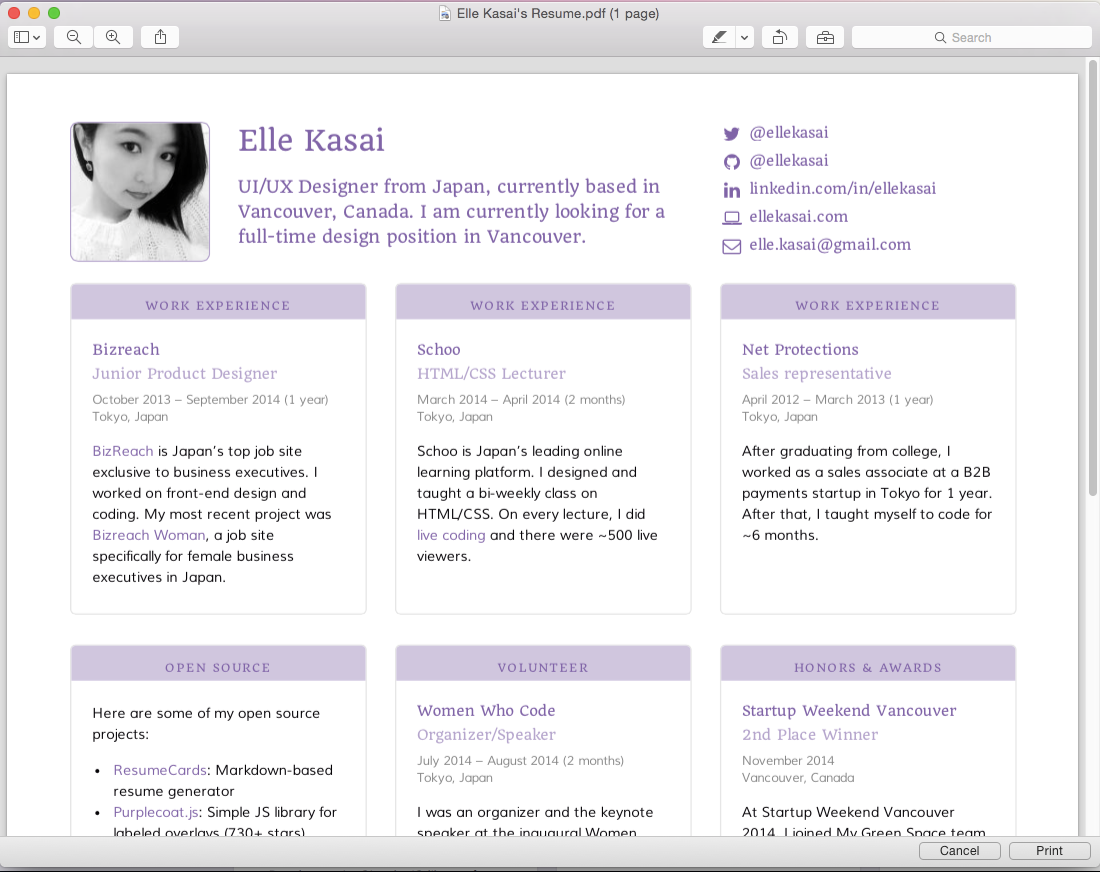
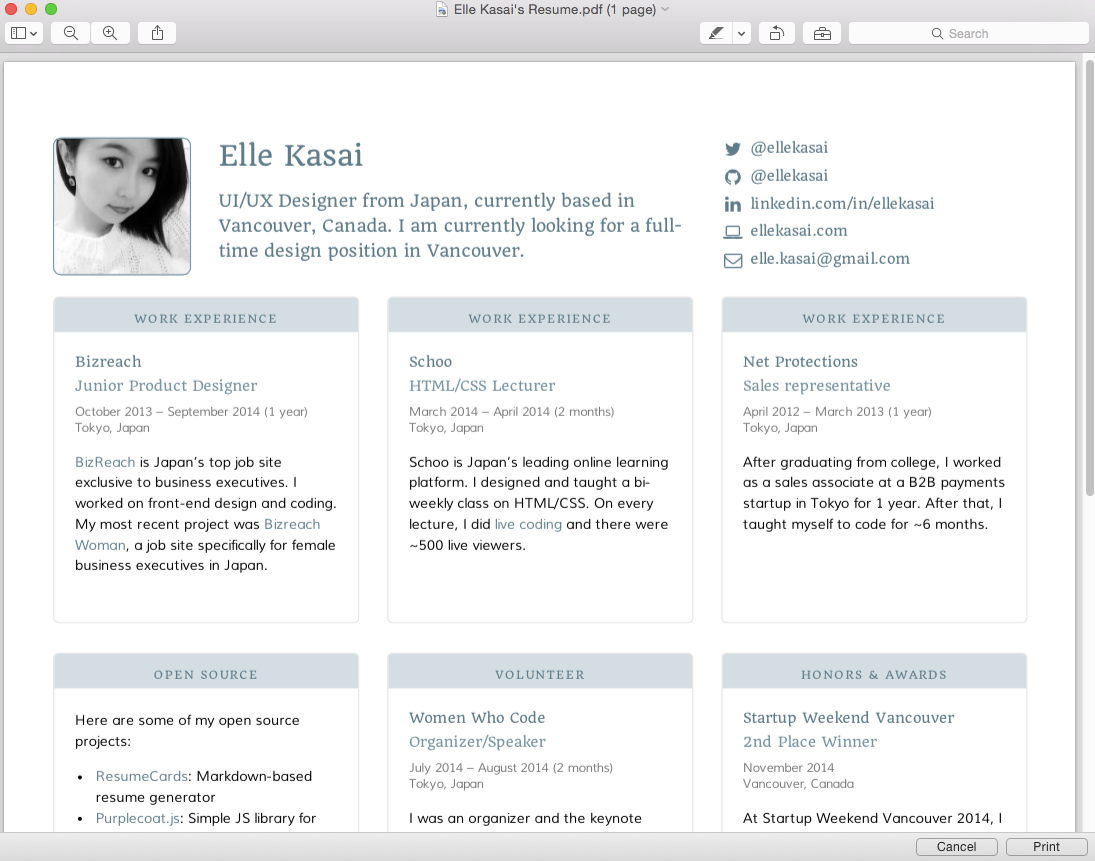
change default color

Changed region(s): [[0.0, 0.0, 1.0, 1.0]]

diff --git a/stylesheets/resumecards.scss b/stylesheets/resumecards.scss
@@ -27,21 +27,21 @@ $grid-gutter-width: 20px;
   Theme Colors
 ———————————–———————————–*/
 
-$default-base: #8064A7;
+$default-base: #5F7C8A;
 $red-base: #C46767;
 $pink-base: #D95D87;
-$bluegray-base: #5F7C8A;
 $blue-base: #59A2DD;
+$purple-base: #8064A7;
 $brown-base: #785447;
 $teal-base: #54C2B8;
 $green-base: #6BAB6E;
 
 $all-colors: ("default": ("base": $default-base,
-                          "sub": lighten($default-base, 20%),
+                          "sub": lighten($default-base, 10%),
                           "text": darken($default-base, 50%),
                           "muted": grayscale($default-base),
-                          "bg": lighten($default-base, 40%),
-                          "heading": lighten($default-base, 30%)),
+                          "bg": lighten($default-base, 45%),
+                          "heading": lighten($default-base, 40%)),
               "red": ("base": $red-base,
                       "sub": lighten($red-base, 20%),
                       "text": darken($red-base, 50%),
@@ -66,12 +66,12 @@ $all-colors: ("default": ("base": $default-base,
                        "muted": grayscale($blue-base),
                        "bg": lighten($blue-base, 35%),
                        "heading": lighten($blue-base, 25%)),
-              "bluegray": ("base": $bluegray-base,
-                         "sub": lighten($bluegray-base, 10%),
-                         "text": darken($bluegray-base, 50%),
-                         "muted": grayscale($bluegray-base),
-                         "bg": lighten($bluegray-base, 45%),
-                         "heading": lighten($bluegray-base, 40%)),
+              "purple": ("base": $purple-base,
+                          "sub": lighten($purple-base, 20%),
+                          "text": darken($purple-base, 50%),
+                          "muted": grayscale($purple-base),
+                          "bg": lighten($purple-base, 40%),
+                          "heading": lighten($purple-base, 30%)),
               "teal":  ("base": $teal-base,
                         "sub": lighten($teal-base, 10%),
                         "text": darken($teal-base, 50%),
@@ -110,7 +110,7 @@ body {
   border-top: 7px solid $color-base;
   color: $color-text;
 
-  @each $color-name in "default", "red", "pink", "brown", "blue", "bluegray", "teal", "green" {
+  @each $color-name in "default", "red", "pink", "brown", "blue", "purple", "teal", "green" {
     &.theme-#{$color-name} {
       background-color: map-get(map-get($all-colors, $color-name), "bg");
       border-color: map-get(map-get($all-colors, $color-name), "base");
@@ -134,7 +134,7 @@ footer {
 h1, h2, h3, h4, h5, h6, .panel-title, .resume-contact {
   color: $color-base;
 
-  @each $color-name in "default", "red", "pink", "brown", "blue", "bluegray", "teal", "green" {
+  @each $color-name in "default", "red", "pink", "brown", "blue", "purple", "teal", "green" {
     .theme-#{$color-name} & {
       color: map-get(map-get($all-colors, $color-name), "base");
     }
@@ -163,7 +163,7 @@ a {
     color: $color-sub;
   }
 
-  @each $color-name in "default", "red", "pink", "brown", "blue", "bluegray", "teal", "green" {
+  @each $color-name in "default", "red", "pink", "brown", "blue", "purple", "teal", "green" {
     .theme-#{$color-name} & {
       color: map-get(map-get($all-colors, $color-name), "base");
       &:hover {
@@ -185,7 +185,7 @@ a {
   background-color: $color-heading;
   border: none;
 
-  @each $color-name in "default", "red", "pink", "brown", "blue", "bluegray", "teal", "green" {
+  @each $color-name in "default", "red", "pink", "brown", "blue", "purple", "teal", "green" {
     .theme-#{$color-name} & {
       background-color: map-get(map-get($all-colors, $color-name), "heading");
     }
@@ -232,7 +232,7 @@ a {
 .btn-primary {
   @include button-variant(#fff, $color-base, darken($color-base, 10%));
 
-  @each $color-name in "default", "red", "pink", "brown", "blue", "bluegray", "teal", "green" {
+  @each $color-name in "default", "red", "pink", "brown", "blue", "purple", "teal", "green" {
     .theme-#{$color-name} & {
       @include button-variant(#fff, map-get(map-get($all-colors, $color-name), "base"),
       darken(map-get(map-get($all-colors, $color-name), "base"), 10%));
@@ -267,7 +267,7 @@ a {
     margin-top: 30px;
   }
 
-  @each $color-name in "default", "red", "pink", "brown", "blue", "bluegray", "teal", "green" {
+  @each $color-name in "default", "red", "pink", "brown", "blue", "purple", "teal", "green" {
     .theme-#{$color-name} & {
       color: map-get(map-get($all-colors, $color-name), "base");
     }
@@ -320,7 +320,7 @@ a {
   font-family: "Quando", sans-serif;
   font-size: 13px;
 
-  @each $color-name in "default", "red", "pink", "brown", "blue", "bluegray", "teal", "green" {
+  @each $color-name in "default", "red", "pink", "brown", "blue", "purple", "teal", "green" {
     .theme-#{$color-name} & {
       color: map-get(map-get($all-colors, $color-name), "base");
     }
@@ -333,7 +333,7 @@ a {
     border: 1px solid $color-sub;
   }
 
-  @each $color-name in "default", "red", "pink", "brown", "blue", "bluegray", "teal", "green" {
+  @each $color-name in "default", "red", "pink", "brown", "blue", "purple", "teal", "green" {
     .theme-#{$color-name} & {
       img {
         border: 1px solid map-get(map-get($all-colors, $color-name), "sub");
@@ -360,7 +360,7 @@ a {
   font-family: "Quando", sans-serif;
   font-size: 14px;
 
-  @each $color-name in "default", "red", "pink", "brown", "blue", "bluegray", "teal", "green" {
+  @each $color-name in "default", "red", "pink", "brown", "blue", "purple", "teal", "green" {
     .theme-#{$color-name} & {
       color: map-get(map-get($all-colors, $color-name), "sub");
     }
@@ -376,7 +376,7 @@ a {
   color: $color-muted;
   line-height: 1.4;
 
-  @each $color-name in "default", "red", "pink", "brown", "blue", "bluegray", "teal", "green" {
+  @each $color-name in "default", "red", "pink", "brown", "blue", "purple", "teal", "green" {
     .theme-#{$color-name} & {
       color: map-get(map-get($all-colors, $color-name), "muted");
     }

diff --git a/index.html b/index.html
@@ -56,7 +56,7 @@
               <li><a href="#" id="pink">Pink</a></li>
               <li><a href="#" id="brown">Brown</a></li>
               <li><a href="#" id="blue">Blue</a></li>
-              <li><a href="#" id="bluegray">Blue Gray</a></li>
+              <li><a href="#" id="purple">Purple</a></li>
               <li><a href="#" id="teal">Teal</a></li>
               <li><a href="#" id="green">Green</a></li>
             </ul>
